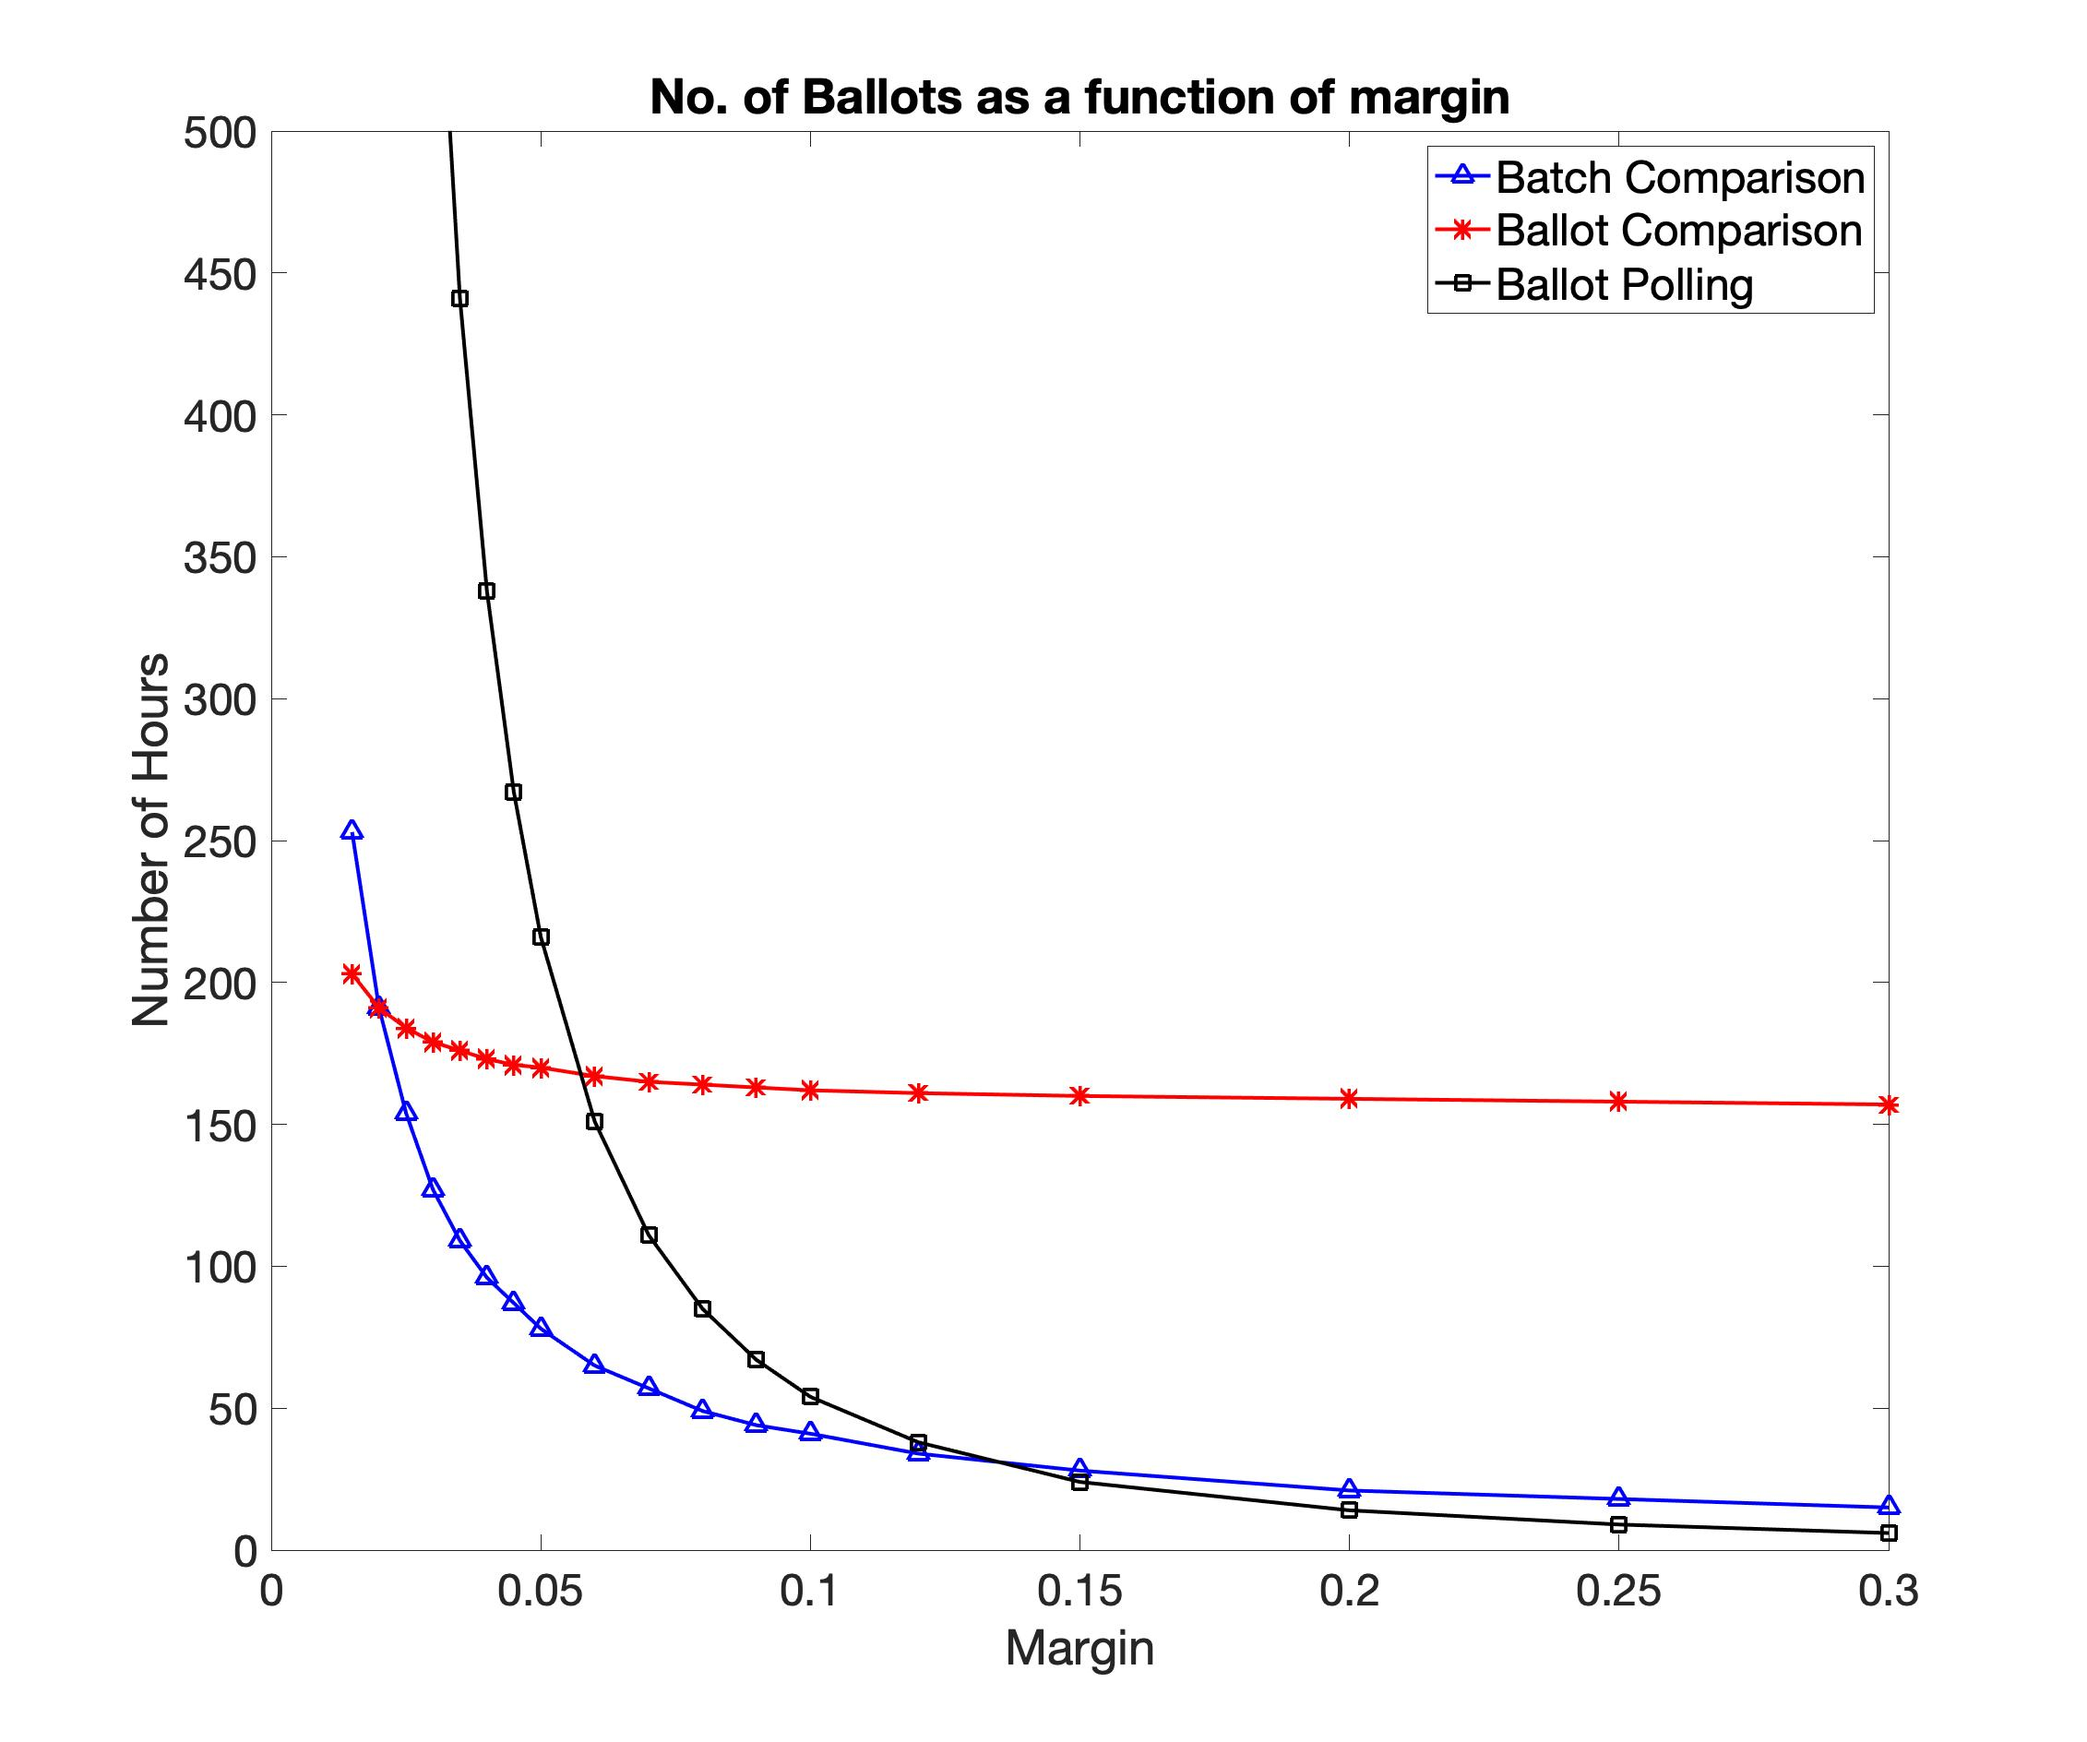
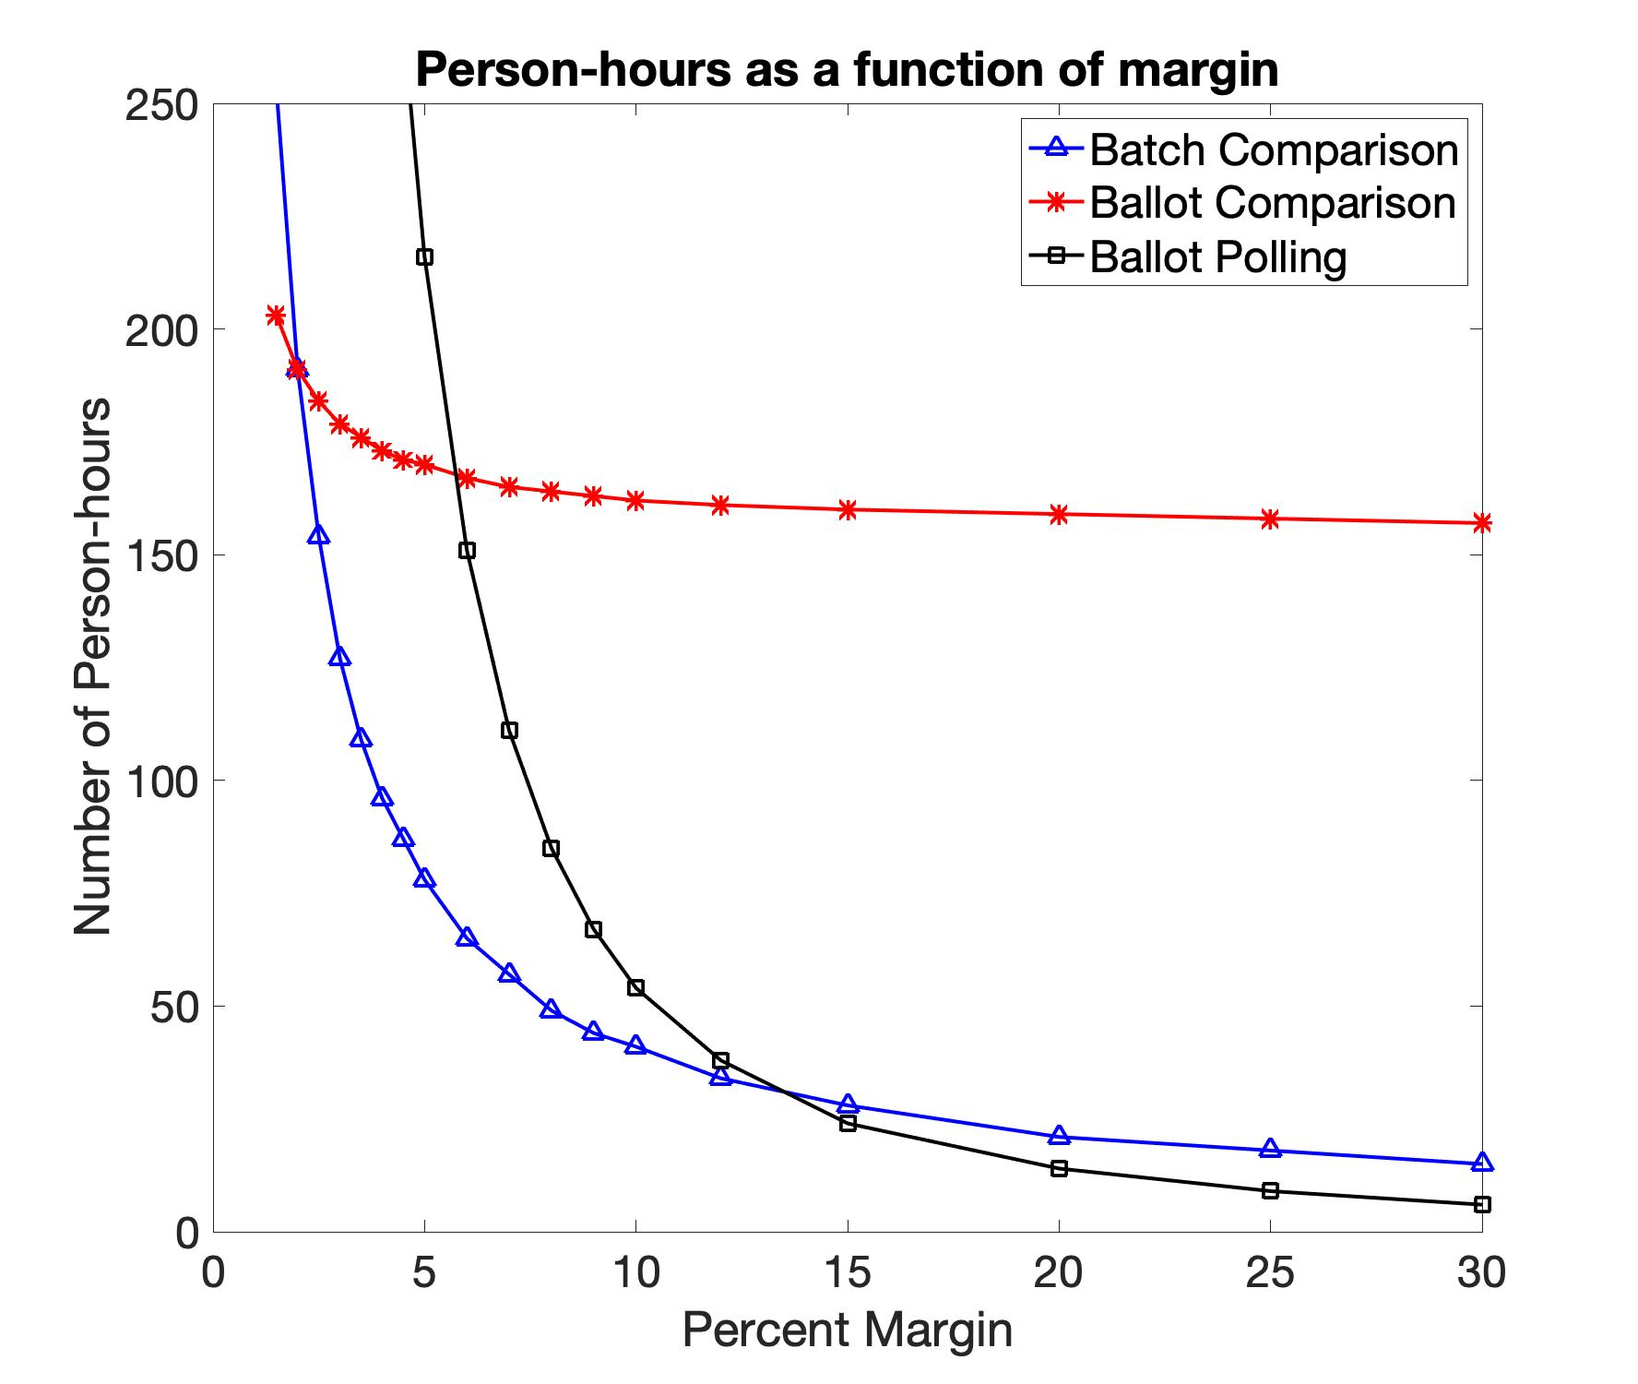
update to Maryland figure

diff --git a/R2Audits/Athena/Scripts/2016_Presidential/Maryland.m b/R2Audits/Athena/Scripts/2016_Presidential/Maryland.m
@@ -17,12 +17,12 @@ MD_Data = [0.015	253	2425	203;
 0.250	18	9	158;
 0.300	15	6	157];
 
-plot(MD_Data(:, 1), MD_Data(:, 2), 'b^-', MD_Data(:, 1), MD_Data(:, 4), ...
-    'r*-', MD_Data(:, 1), MD_Data(:, 3), 'ks-', 'MarkerSize', 10, 'LineWidth', 2)
-axis([0 0.3 0 500])
-title('No. of Ballots as a function of margin', 'FontSize', 32)
-xlabel('Margin', 'FontSize', 28)
-ylabel('Number of Ballots', 'FontSize', 28)
+plot(100*MD_Data(:, 1), MD_Data(:, 2), 'b^-', 100*MD_Data(:, 1), MD_Data(:, 4), ...
+    'r*-', 100*MD_Data(:, 1), MD_Data(:, 3), 'ks-', 'MarkerSize', 10, 'LineWidth', 2)
+axis([0 30 0 250])
+title('Person-hours as a function of margin', 'FontSize', 32)
+xlabel('Percent Margin', 'FontSize', 28)
+ylabel('Number of Person-hours', 'FontSize', 28)
 legend('Batch Comparison', 'Ballot Comparison', 'Ballot Polling', 'FontSize', 24)
 ax = gca;
 ax.FontSize = 24;
